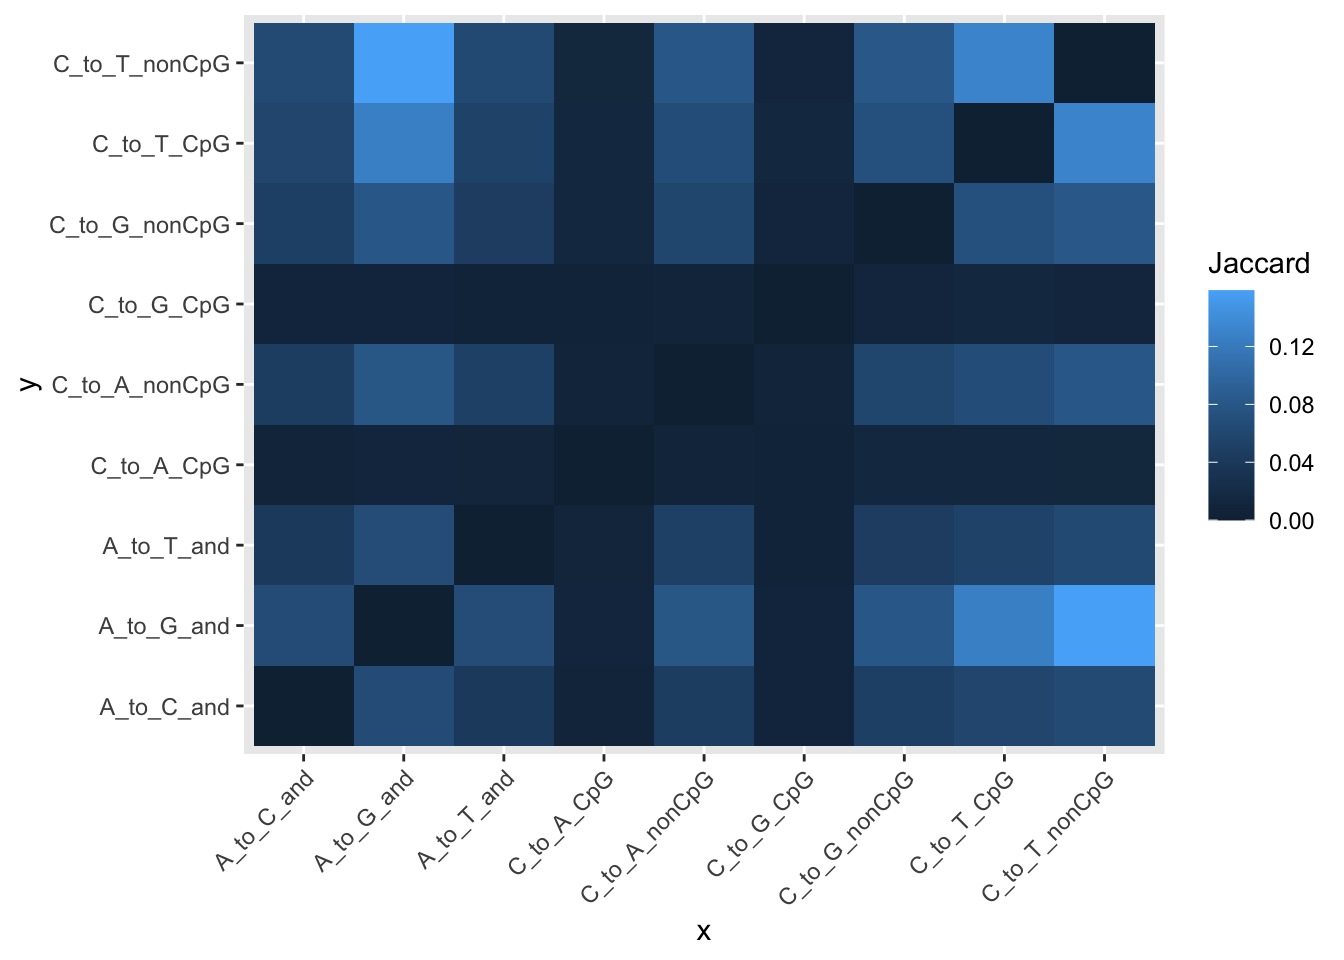
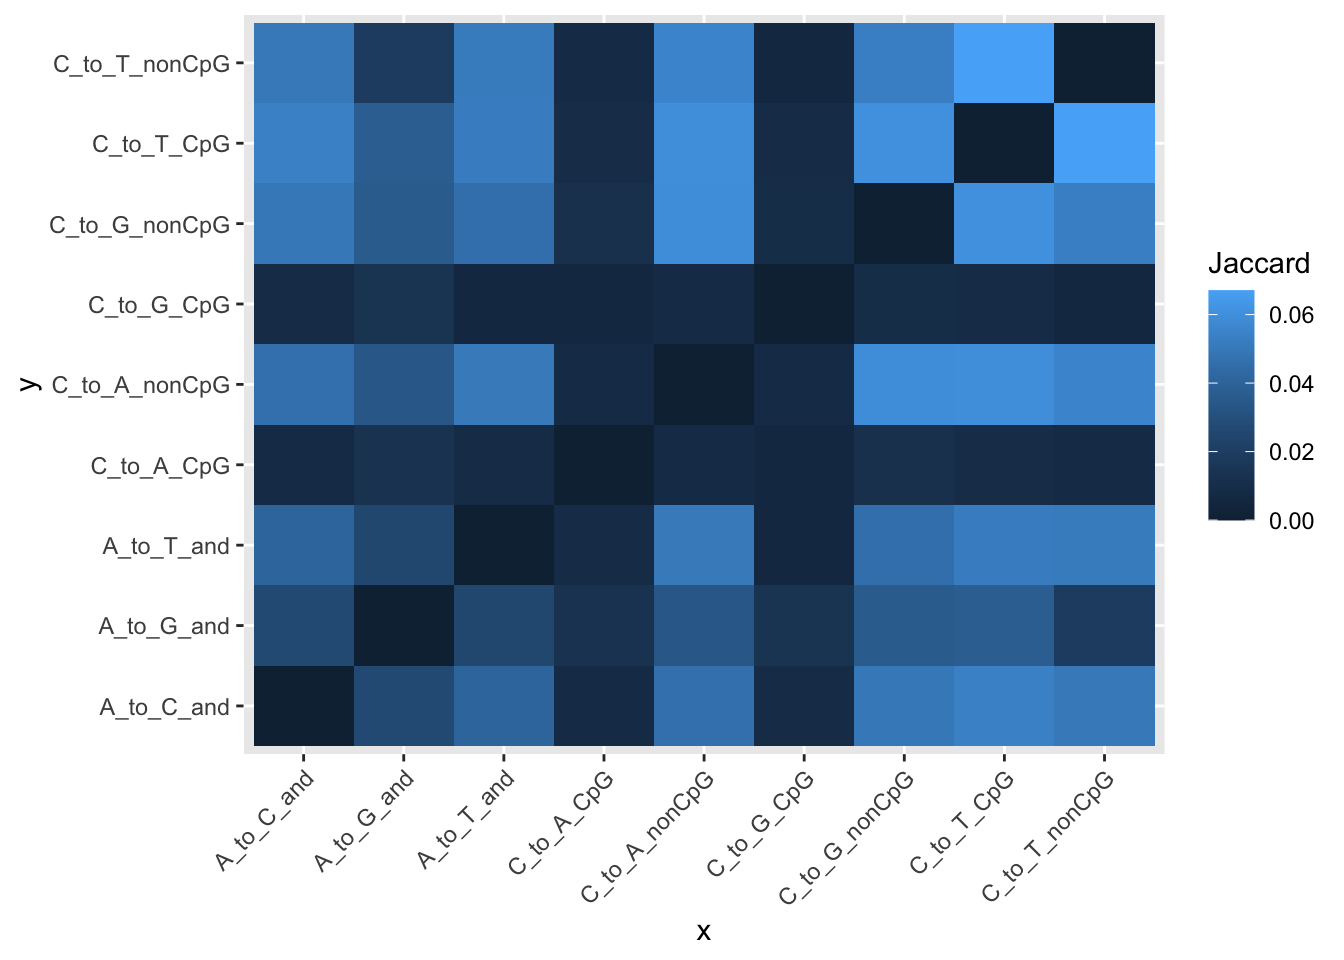
Build site.

diff --git a/docs/index.html b/docs/index.html
@@ -291,7 +291,7 @@ $(document).ready(function () {
 <div class="tab-content">
 <div id="summary" class="tab-pane fade in active">
 <p>
-<strong>Last updated:</strong> 2022-03-30
+<strong>Last updated:</strong> 2022-04-06
 </p>
 <p>
 <strong>Checks:</strong> <span class="glyphicon glyphicon-ok text-success" aria-hidden="true"></span> 7 <span class="glyphicon glyphicon-exclamation-sign text-danger" aria-hidden="true"></span> 0
@@ -382,16 +382,16 @@ This reproducible <a href="https://rmarkdown.rstudio.com">R Markdown</a> analysi
 <div class="panel panel-default">
 <div class="panel-heading">
 <p class="panel-title">
-<a data-toggle="collapse" data-parent="#workflowr-checks" href="#strongRepositoryversionstrong10d85d8"> <span class="glyphicon glyphicon-ok text-success" aria-hidden="true"></span> <strong>Repository version:</strong> 10d85d8 </a>
+<a data-toggle="collapse" data-parent="#workflowr-checks" href="#strongRepositoryversionstrongb8f014a"> <span class="glyphicon glyphicon-ok text-success" aria-hidden="true"></span> <strong>Repository version:</strong> b8f014a </a>
 </p>
 </div>
-<div id="strongRepositoryversionstrong10d85d8" class="panel-collapse collapse">
+<div id="strongRepositoryversionstrongb8f014a" class="panel-collapse collapse">
 <div class="panel-body">
 <p>
 Great! You are using Git for version control. Tracking code development and connecting the code version to the results is critical for reproducibility.
 </p>
 <p>
-The results in this page were generated with repository version 10d85d8. See the <em>Past versions</em> tab to see a history of the changes made to the R Markdown and HTML files.
+The results in this page were generated with repository version b8f014a. See the <em>Past versions</em> tab to see a history of the changes made to the R Markdown and HTML files.
 </p>
 <p>
 Note that you need to be careful to ensure that all relevant files for the analysis have been committed to Git prior to generating the results (you can use <code>wflow_publish</code> or <code>wflow_git_commit</code>). workflowr only checks the R Markdown file, but you know if there are other scripts or data files that it depends on. Below is the status of the Git repository when the results were generated:
@@ -401,17 +401,6 @@ Ignored files:
     Ignored:    .DS_Store
     Ignored:    .RData
     Ignored:    .Rhistory
-
-Untracked files:
-    Untracked:  VennDiagram.2022-03-30_12-44-20.log
-    Untracked:  VennDiagram.2022-03-30_12-45-15.log
-    Untracked:  VennDiagram.2022-03-30_12-46-54.log
-    Untracked:  VennDiagram.2022-03-30_12-47-22.log
-    Untracked:  VennDiagram.2022-03-30_12-51-46.log
-    Untracked:  VennDiagram.2022-03-30_13-29-36.log
-    Untracked:  VennDiagram.2022-03-30_13-30-41.log
-    Untracked:  VennDiagram.2022-03-30_13-33-19.log
-    Untracked:  VennDiagram.2022-03-30_13-34-05.log
 
 </code></pre>
 <p>
@@ -450,6 +439,40 @@ Message
 </tr>
 </thead>
 <tbody>
+<tr>
+<td>
+Rmd
+</td>
+<td>
+b8f014a
+</td>
+<td>
+Lifan Liang
+</td>
+<td>
+2022-04-06
+</td>
+<td>
+wflow_publish(c("analysis", "data", "docs"))
+</td>
+</tr>
+<tr>
+<td>
+html
+</td>
+<td>
+a50ea9a
+</td>
+<td>
+Lifan Liang
+</td>
+<td>
+2022-03-30
+</td>
+<td>
+Build site.
+</td>
+</tr>
 <tr>
 <td>
 Rmd
@@ -1032,9 +1055,18 @@ Lifan Liang
 <p><img src="assets/mut_type_total.png" /></p>
 </div>
 </div>
+<div id="definition-of-hotspots" class="section level3">
+<h3>Definition of hotspots</h3>
+<p><span class="math inline">\(\ell(\alpha;y_i,\mu_i)\)</span> is actually the normalization factor for <span class="math inline">\(P(\theta|y_i,\mu_i,\alpha)\)</span>, the posterior <span class="math inline">\(theta\)</span> is <span class="math inline">\(Gamma(y_i+\alpha, \mu_i+\alpha)\)</span>. Hence we have <span class="math display">\[
+E(\theta|y_i,\mu_i,\alpha)=\frac{y_i+\alpha}{\mu_i+\alpha}
+\]</span></p>
+<p>Previously, I tried to define hotspots based on <span class="math inline">\(E(\theta|y_i,\mu_i,\alpha)\)</span>. As shown in the figure below, large <span class="math inline">\(\alpha\)</span> in some mutation types may make it difficult to find hotspots. <img src="assets/theta_post_mut_type.png" /></p>
+<p>Alternatively, we detect hotspots with a simple test. Say the null model is that: <span class="math display">\[
+y_i \sim Poisson(\mu_i)
+\]</span> And the alternative is that <span class="math inline">\(y_i\)</span> is not sampled from the Poisson of <span class="math inline">\(\mu_i\)</span>. We used <span class="math inline">\(P&lt;0.05\)</span> as the criteria.</p>
+</div>
 <div id="hotspots-continuity" class="section level3">
 <h3>Hotspots continuity</h3>
-<p>First, hotspots in this section are defined as windows with observed counts 0.5 larger than the expected counts.</p>
 <p>I computed how many hotspot windows are actually adjacent to another (“continuous” column in the count table). C_to_T and A_to_G have the most hotspots.</p>
 <table>
 <thead>
@@ -1049,13 +1081,13 @@ Lifan Liang
 <tr class="odd">
 <td align="left">A_to_C_and_5k</td>
 <td align="right">576194</td>
-<td align="right">7720</td>
+<td align="right">7667</td>
 <td align="right">107</td>
 </tr>
 <tr class="even">
 <td align="left">C_to_T_nonCpG_5k</td>
 <td align="right">576194</td>
-<td align="right">26884</td>
+<td align="right">11393</td>
 <td align="right">1464</td>
 </tr>
 <tr class="odd">
@@ -1073,7 +1105,7 @@ Lifan Liang
 <tr class="odd">
 <td align="left">A_to_T_and_5k</td>
 <td align="right">576194</td>
-<td align="right">7324</td>
+<td align="right">7300</td>
 <td align="right">115</td>
 </tr>
 <tr class="even">
@@ -1085,7 +1117,7 @@ Lifan Liang
 <tr class="odd">
 <td align="left">A_to_G_and_5k</td>
 <td align="right">576194</td>
-<td align="right">29033</td>
+<td align="right">5147</td>
 <td align="right">1683</td>
 </tr>
 <tr class="even">
@@ -1097,7 +1129,7 @@ Lifan Liang
 <tr class="odd">
 <td align="left">C_to_T_CpG_5k</td>
 <td align="right">576194</td>
-<td align="right">19633</td>
+<td align="right">15183</td>
 <td align="right">836</td>
 </tr>
 </tbody>
@@ -1186,9 +1218,6 @@ Lifan Liang
 </table>
 </div>
 </div>
-<p>) ### Hotspots across mutation types <span class="math inline">\(\ell(\alpha;y_i,\mu_i)\)</span> is actually the normalization factor for <span class="math inline">\(P(\theta|y_i,\mu_i,\alpha)\)</span>, the posterior <span class="math inline">\(theta\)</span> is <span class="math inline">\(Gamma(y_i+\alpha, \mu_i+\alpha)\)</span>. Hence we have <span class="math display">\[
-E(\theta|y_i,\mu_i,\alpha)=\frac{y_i+\alpha}{\mu_i+\alpha}
-\]</span> We computed the posterior mean of <span class="math inline">\(\theta_i\)</span> for all the mutation types. Below is the scatter plot of <span class="math inline">\(\theta_i\)</span> across different mutation types. <img src="assets/theta_post_mut_type.png" /></p>
 <br>
 <p>
 <button type="button" class="btn btn-default btn-workflowr btn-workflowr-sessioninfo" data-toggle="collapse" data-target="#workflowr-sessioninfo" style="display: block;">
